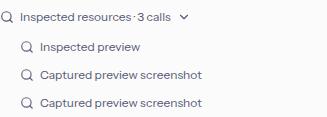
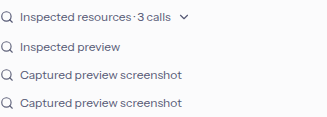
Restore aligned transcript activity rows

Changed region(s): [[0.0, 0.8205, 0.6116, 0.9487], [0.0, 0.5897, 0.6116, 0.6923], [0.0, 0.3333, 0.4281, 0.4615]]

diff --git a/provider-sdk/agentkit/activity.css b/provider-sdk/agentkit/activity.css
@@ -280,7 +280,7 @@
 .k-ai-transcript-activity__icon.is-busy { animation: k-ai-activity-spin .9s linear infinite; }
 .k-ai-transcript-activity__icon.is-attention { color: var(--color-warning); }
 .k-ai-transcript-activity__list { min-width: 0; }
-.k-ai-transcript-activity__list.is-grouped { padding-inline-start: 20px; }
+.k-ai-transcript-activity__list.is-grouped { padding-inline-start: 0; }
 .k-ai-transcript-activity__list.is-bounded { max-height: 272px; overflow-y: auto; padding-bottom: 28px; mask-image: linear-gradient(to bottom, black 0, black calc(100% - 28px), transparent 100%); }
 .k-ai-transcript-activity__more { min-height: 32px; border: 0; background: transparent; color: var(--color-text-secondary); font: inherit; cursor: pointer; }
 .k-ai-transcript-activity :is(button, pre):focus-visible { outline: 2px solid var(--color-accent); outline-offset: 2px; }

diff --git a/providers/agents/portal/src/agentkit/activity.css b/providers/agents/portal/src/agentkit/activity.css
@@ -280,7 +280,7 @@
 .k-ai-transcript-activity__icon.is-busy { animation: k-ai-activity-spin .9s linear infinite; }
 .k-ai-transcript-activity__icon.is-attention { color: var(--color-warning); }
 .k-ai-transcript-activity__list { min-width: 0; }
-.k-ai-transcript-activity__list.is-grouped { padding-inline-start: 20px; }
+.k-ai-transcript-activity__list.is-grouped { padding-inline-start: 0; }
 .k-ai-transcript-activity__list.is-bounded { max-height: 272px; overflow-y: auto; padding-bottom: 28px; mask-image: linear-gradient(to bottom, black 0, black calc(100% - 28px), transparent 100%); }
 .k-ai-transcript-activity__more { min-height: 32px; border: 0; background: transparent; color: var(--color-text-secondary); font: inherit; cursor: pointer; }
 .k-ai-transcript-activity :is(button, pre):focus-visible { outline: 2px solid var(--color-accent); outline-offset: 2px; }

diff --git a/providers/app-studio/portal/src/agentkit/activity.css b/providers/app-studio/portal/src/agentkit/activity.css
@@ -280,7 +280,7 @@
 .k-ai-transcript-activity__icon.is-busy { animation: k-ai-activity-spin .9s linear infinite; }
 .k-ai-transcript-activity__icon.is-attention { color: var(--color-warning); }
 .k-ai-transcript-activity__list { min-width: 0; }
-.k-ai-transcript-activity__list.is-grouped { padding-inline-start: 20px; }
+.k-ai-transcript-activity__list.is-grouped { padding-inline-start: 0; }
 .k-ai-transcript-activity__list.is-bounded { max-height: 272px; overflow-y: auto; padding-bottom: 28px; mask-image: linear-gradient(to bottom, black 0, black calc(100% - 28px), transparent 100%); }
 .k-ai-transcript-activity__more { min-height: 32px; border: 0; background: transparent; color: var(--color-text-secondary); font: inherit; cursor: pointer; }
 .k-ai-transcript-activity :is(button, pre):focus-visible { outline: 2px solid var(--color-accent); outline-offset: 2px; }

diff --git a/docs/design/components/ai-conversation.md b/docs/design/components/ai-conversation.md
@@ -456,7 +456,7 @@ and [App Studio phone](../evidence/command-output/command-output-studio-390-dark
 
 Worked for contains the ordered commentary, tool groups, and command output. It opens during execution so streamed tool starts are visible, and
 preserves explicit reader choices across updates. Single actions have no count wrapper; multiple actions share one semantic summary
-(such as Edited files, read files, ran commands) with a call count and indented
+(such as Edited files, read files, ran commands) with a call count and aligned
 individual rows, without category subgroups. Generic inspections, including preview
 screenshots, use Inspected resources rather than claiming to read files. Only
 explicit file operations use Read files.
